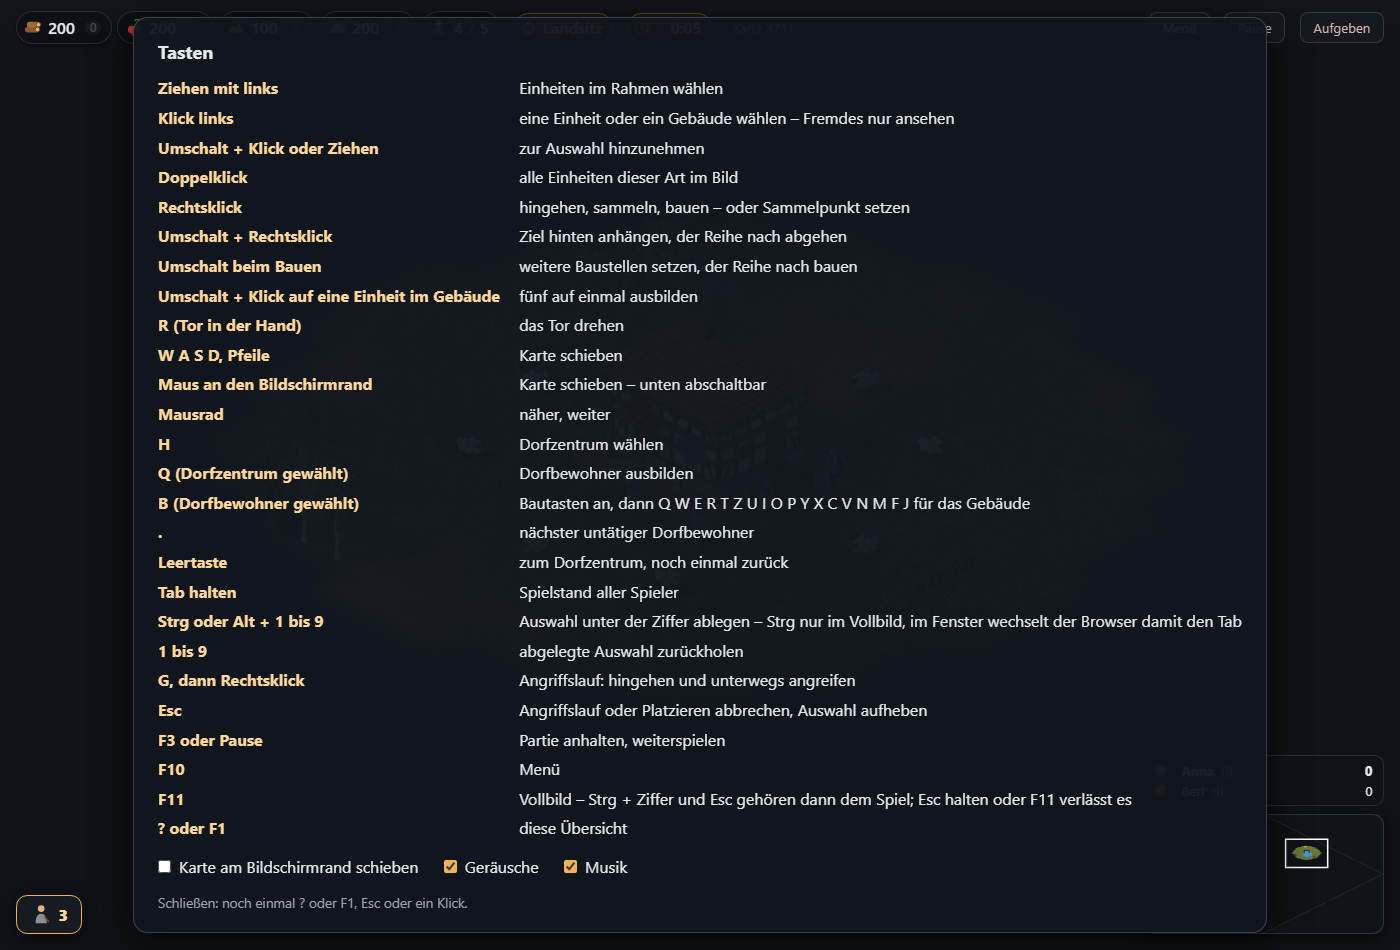
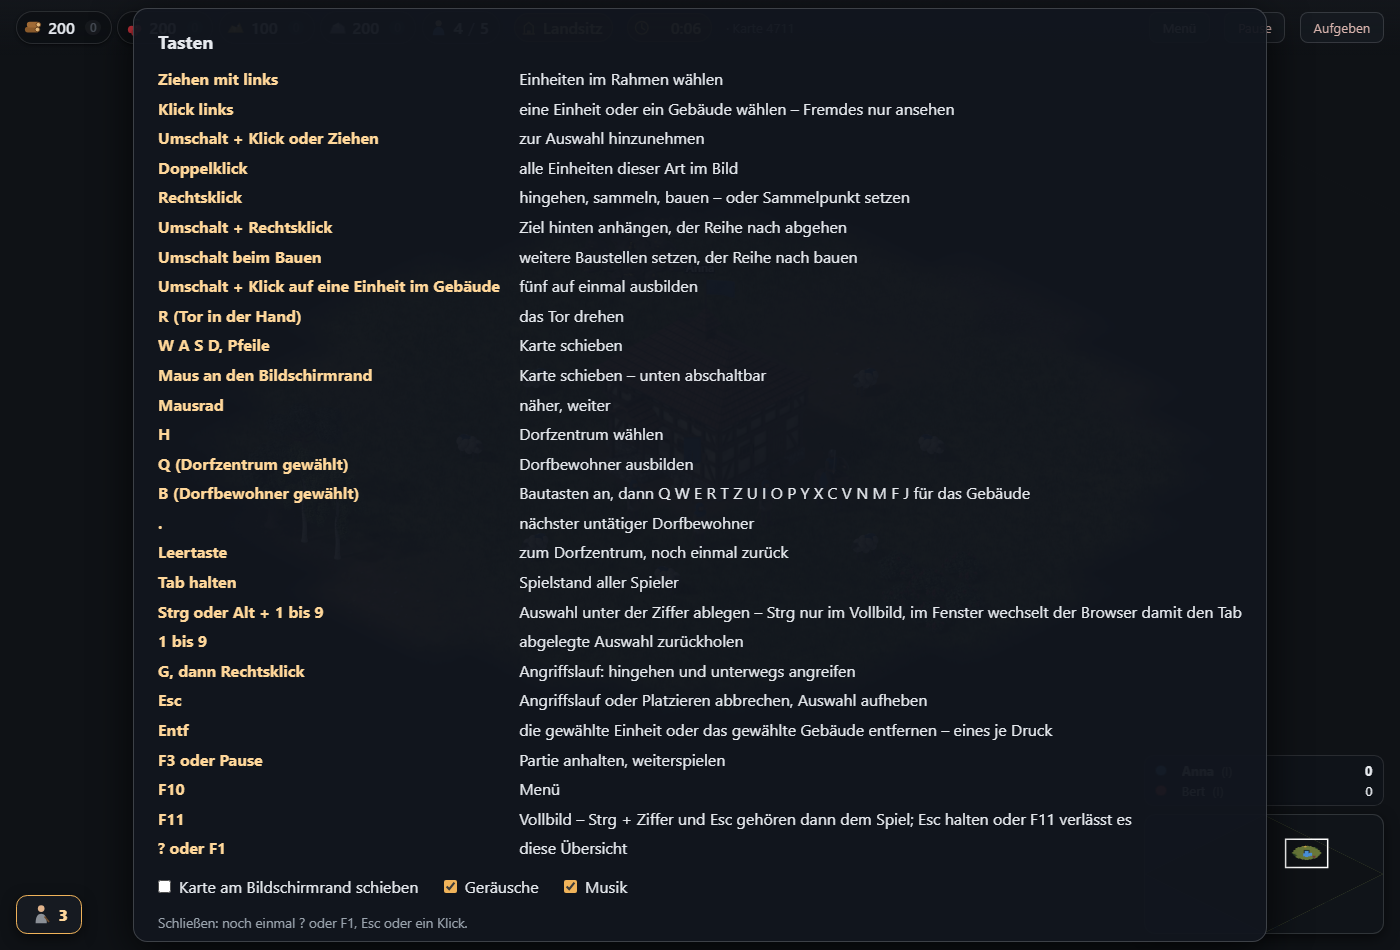
bedienung AC-75: Entf entfernt das Gewaehlte
Die Taste Entf nimmt eine gewaehlte eigene Einheit oder das gewaehlte
eigene Gebaeude aus dem Spiel - eines je Druck, eine gehaltene Taste
zaehlt einmal. Die Einheit faellt wie im Kampf und zaehlt als verloren,
das Gebaeude hinterlaesst Truemmer, eine Baustelle wird abgerissen und
erstattet. Niemand bekommt Punkte dafuer; entschieden wird auf dem Server
(Nachricht `entlassen`).

Rueckmeldung des Benutzers (Punkt 38): "sollte es moeglich sein, dass ein
dorfbewohner sich selbst umbringt? durch entf taste?" - und "nur
entfernen, muessen keine massenentf sein oder so."

Belegt: tests/strategie-entlassen.test.mjs (4),
e2e/tests/strategie-entlassen.spec.mjs (1, mit Bild). Check gruen:
912 Tests, 14 Partien; 292 Browserfaelle, davon neu gefahren die 16 um
Tasten, Leiste und Laptopbild.

Changed region(s): [[0.0921, 0.0305, 0.8907, 0.9768], [0.3686, 0.0, 0.43, 0.0305], [0.4607, 0.0, 0.4914, 0.0305]]

diff --git a/public/ansicht.js b/public/ansicht.js
@@ -200,6 +200,8 @@ export class Ansicht {
     // Nach jedem Bild und bei geaenderten Feldern - fuer die Uebersichtskarte (bedienung AC-11).
     this.nachBild = () => {};
     this.beiTaste = () => false;
+    // Ein Auftrag, der kein Befehl an ein Ziel ist (Entf, bedienung AC-75).
+    this.beiAuftrag = (auftrag) => {};
     this.beiFeldern = () => {};
     // Die Tafel auf `Tab` (bedienung AC-20): je Spieler, was zuletzt ankam,
     // und ob sie gerade offen ist - app.js zeichnet sie.
@@ -1314,6 +1316,12 @@ export class Ansicht {
         }
         return;
       }
+      // Entf entfernt das Gewaehlte (bedienung AC-75) - eines je Druck, eine
+      // gehaltene Taste raeumt kein Heer ab.
+      if (e.key === 'Delete' && !e.ctrlKey && !e.metaKey && !e.altKey) {
+        if (!e.repeat) this.entlassen();
+        return;
+      }
       // Der naechste untaetige Dorfbewohner (bedienung AC-28).
       if (e.key === '.' && !e.ctrlKey && !e.metaKey && !e.altKey) {
         this.naechsterUntaetiger();
@@ -1345,6 +1353,26 @@ export class Ansicht {
       // Wer mit gehaltenem Tab das Fenster verlaesst, bekommt kein keyup.
       this.spielstandSetzen(false);
     });
+  }
+
+  /**
+   * Das Gewaehlte entfernen (bedienung AC-75): von mehreren gewaehlten
+   * Einheiten die erste, sonst das gewaehlte eigene Gebaeude. Entschieden
+   * wird auf dem Server; hier wird nur gefragt. Gibt zurueck, ob etwas
+   * geschickt wurde.
+   */
+  entlassen() {
+    if (this.ende || this.aus || this.pausiert) return false;
+    for (const id of this.ausgewaehlt) {
+      const einheit = this.nachher.get(id);
+      if (!einheit || einheit.b !== this.ich || einheit.s) continue;
+      this.beiAuftrag({ auftrag: 'entlassen', einheit: id });
+      return true;
+    }
+    const gebaeude = this.ausgewaehlt.size ? null : this.gebaeude.get(this.gewaehltesGebaeude);
+    if (!gebaeude || gebaeude.b !== this.ich) return false;
+    this.beiAuftrag({ auftrag: 'entlassen', gebaeude: gebaeude.i });
+    return true;
   }
 
   // Ausgewaehlt wird im Bild, nicht auf der Karte: ein Rechteck auf dem

diff --git a/server/spiele/strategie/welt.js b/server/spiele/strategie/welt.js
@@ -1320,6 +1320,8 @@ class Welt {
         return this.ansehen(spielerId, nachricht.feld);
       case 'farmen':
         return this.farmenEinstellen(spielerId, nachricht);
+      case 'entlassen':
+        return this.entlassen(spielerId, nachricht);
       default:
         return this.befehl(spielerId, nachricht.einheiten, nachricht.ziel, Boolean(nachricht.angriffslauf),
           Boolean(nachricht.anhaengen));
@@ -2260,6 +2262,29 @@ class Welt {
     if (!spieler) return { fehler: 'Diesen Spieler gibt es hier nicht.' };
     if (typeof nachricht.erneuern === 'boolean') spieler.farmenErneuern = nachricht.erneuern;
     if (typeof nachricht.raeumen === 'boolean') spieler.brachenRaeumen = nachricht.raeumen;
+    return {};
+  }
+
+  /**
+   * Etwas Eigenes entfernen (bedienung AC-75): eine Einheit oder ein Gebaeude
+   * je Nachricht. Die Einheit faellt wie im Kampf (sie liegt zwei Sekunden,
+   * zaehlt auf der Tafel als verloren), das Gebaeude stuerzt ein und
+   * hinterlaesst Truemmer; eine Baustelle wird abgerissen und erstattet, was
+   * nicht verbaut ist (bauen AC-6). Punkte bekommt dafuer niemand - es gibt
+   * keinen Angreifer (bedienung AC-49).
+   */
+  entlassen(spielerId, nachricht) {
+    if (nachricht.gebaeude !== undefined) {
+      const gebaeude = this.gebaeude.get(nachricht.gebaeude);
+      if (!gebaeude || gebaeude.besitzer !== spielerId) return { fehler: 'Das ist nicht dein Gebäude.' };
+      if (!gebaeude.fertig) return this.abreissen(spielerId, gebaeude.id);
+      gebaeude.leben = 0;
+      this.gebaeudeZerstoeren(gebaeude);
+      return {};
+    }
+    const einheit = this.einheiten.get(nachricht.einheit);
+    if (!einheit || einheit.besitzer !== spielerId || einheit.tot) return { fehler: 'Das ist nicht deine Einheit.' };
+    this.einheitSterben(einheit);
     return {};
   }
 

diff --git a/public/tasten.js b/public/tasten.js
@@ -39,6 +39,7 @@ export const BELEGUNG = [
   ['1 bis 9', 'abgelegte Auswahl zurückholen'],
   ['G, dann Rechtsklick', 'Angriffslauf: hingehen und unterwegs angreifen'],
   ['Esc', 'Angriffslauf oder Platzieren abbrechen, Auswahl aufheben'],
+  ['Entf', 'die gewählte Einheit oder das gewählte Gebäude entfernen – eines je Druck'],
   ['F3 oder Pause', 'Partie anhalten, weiterspielen'],
   ['F10', 'Menü'],
   ['F11', 'Vollbild – Strg + Ziffer und Esc gehören dann dem Spiel; Esc halten oder F11 verlässt es'],

diff --git a/public/app.js b/public/app.js
@@ -148,6 +148,7 @@ function empfangen(nachricht) {
         const tasten = new Tasten(ansicht, teile.auswahlleiste, document.getElementById('tastenuebersicht'), ton);
         tastenhilfe = tasten;
         ansicht.beiTaste = (e) => tasten.taste(e);
+        ansicht.beiAuftrag = (auftrag) => senden({ typ: 'befehl', ...auftrag });
         ansicht.melden = spielMelden;
         ansicht.beiEreignis = (name, wo) => ton.spielen(name, wo);
         ansicht.beiZeitalter = (stufe, name) => {

diff --git a/CLAUDE.md b/CLAUDE.md
@@ -180,7 +180,7 @@ Umfang hinzufügt, dort nachsehen.
 
 ## Stand
 
-**545 von 668 Kriterien fertig.** 908 Tests ohne Browser und 14 ganze Partien, 291 im Browser. Die
+**546 von 669 Kriterien fertig.** 912 Tests ohne Browser und 14 ganze Partien, 292 im Browser. Die
 Übersicht ist der Bericht: `npm run qa:report`.
 
 Gebaut ist der Unterbau: Räume, Übertragung, Karte, Wegfindung, Sammeln,
@@ -200,7 +200,7 @@ Gemessen: **3,10 Tore je Spiel, 48 % Heimsiege, 21 % Unentschieden**
 ohne Menschen null Widersprüche in den Spielen, Kader, Stärke und Markt
 stabil. Eine Saison rechnet in rund 400 ms, ein Spielstand ist nach zwei
 Saisons unter 1 MB. Der Browserlauf dauert rund 31
-Minuten für 291 Fälle (`npm run e2e:laufzeiten` zeigt, wo; die langsamsten
+Minuten für 292 Fälle (`npm run e2e:laufzeiten` zeigt, wo; die langsamsten
 Fälle sind `fahrplan AC-24` mit 108 s, zwei gegen zwei bis zur Tafel,
 `fahrplan AC-14` mit 90 s, die Ritterzeit am Stück, und `fahrplan AC-12`
 mit 84 s, eine ganze Partie gegen die KI).
@@ -732,7 +732,9 @@ ein Karren zwischen zwei eigenen Märkten bringt weniger als zu einem fremden
 eigene und fremde Haus an der Auswahl (AC-69), Kampfwerte als „3+1"
 (AC-70), Vorräte und erlegte Schafe lassen sich ansehen (AC-63), eine
 Schlagbewegung je Schlag (AC-72), der Mönch ist zu hören und seine Ruhe zu
-sehen (AC-74, AC-68). Ein gefallenes Gebäude liegt kurz als Trümmer da
+sehen (AC-74, AC-68). **`Entf` entfernt das Gewählte** (AC-75,
+Nachricht `entlassen`): eine Einheit oder ein Gebäude je Druck, ohne
+Punkte für den Gegner. Ein gefallenes Gebäude liegt kurz als Trümmer da
 (darstellung AC-26), nach dem Ende steht das Bild (spielziel AC-28), Zoomen
 stockt nicht mehr (darstellung AC-27), und **Pfeil und Wurfstein kommen aus
 einer gerenderten Tafel** (`geschoss`, darstellung AC-28) — der gezeichnete

diff --git a/specs/BOARD.md b/specs/BOARD.md
@@ -7,9 +7,9 @@ Eine Zeile je Abnahmekriterium. Gepflegt wird der Status in der Spec selbst,
 hier steht er zusammengefasst. Erzeugt mit `npm run specs:board`; als Seite
 mit Bildnachweisen, Filter und Suche mit `npm run qa:report`.
 
-**Gesamt:** 545/668 fertig · 3 in Arbeit · 14 in QA · 3 geplant · 95 offen · 8 zurueckgestellt
+**Gesamt:** 546/669 fertig · 3 in Arbeit · 14 in QA · 3 geplant · 95 offen · 8 zurueckgestellt
 
-**Nachweise:** 276 Kriterien mit Bild · 277 ohne Bild, begruendet in `qa/ohne-bild.json`
+**Nachweise:** 277 Kriterien mit Bild · 277 ohne Bild, begruendet in `qa/ohne-bild.json`
 
 ## Nach Spezifikation
 
@@ -22,7 +22,7 @@ mit Bildnachweisen, Filter und Suche mit `npm run qa:report`.
 | [Spielauswahl und Einstellungen](00-plattform/spielauswahl.md) | -         | -     | -       | 5     | -               | 19     |
 | [Uebertragung](00-plattform/uebertragung.md)                   | -         | -     | 1       | 1     | -               | 8      |
 | [Bauen und Ausbilden](10-strategie/bauen.md)                   | -         | -     | -       | 1     | -               | 43     |
-| [Bedienung](10-strategie/bedienung.md)                         | -         | 2     | -       | 3     | -               | 68     |
+| [Bedienung](10-strategie/bedienung.md)                         | -         | 2     | -       | 3     | -               | 69     |
 | [Darstellung](10-strategie/darstellung.md)                     | 1         | 1     | -       | 4     | -               | 22     |
 | [Einheiten und Befehle](10-strategie/einheiten-und-befehle.md) | -         | -     | -       | 17    | 1               | 38     |
 | [Fahrplan zum Klon](10-strategie/fahrplan.md)                  | -         | 2     | -       | 4     | -               | 19     |

diff --git a/specs/10-strategie/bedienung.md b/specs/10-strategie/bedienung.md
@@ -2,7 +2,7 @@
 
 **Bereich:** Strategie
 **Kuerzel:** bedienung
-**Stand:** 68/73 fertig · 2 in QA · 3 offen
+**Stand:** 69/74 fertig · 2 in QA · 3 offen
 
 ## Zweck
 
@@ -678,6 +678,22 @@ Spiel) — sie werden hier eingetragen, wenn sie gebaut sind.
   Benutzers:** „der mönch macht keine geräuscht beim bekehren oder heilen".
   **Nicht geprüft:** wie es klingt — das entscheidet ein Ohr
   (`npm run ton:messen` schreibt die Klänge als WAV).
+- **AC-75** `fertig` **Entf entfernt das Gewählte** — Die Taste `Entf`
+  entfernt, was gewählt ist: eine eigene Einheit oder ein eigenes Gebäude.
+  **Eines je Druck** — sind mehrere Einheiten gewählt, fällt die erste, die
+  anderen bleiben gewählt; eine gehaltene Taste zählt einmal. Die Einheit
+  fällt wie im Kampf (sie liegt zwei Sekunden am Boden und zählt auf der
+  Tafel als verloren), das Gebäude stürzt ein und hinterlässt Trümmer
+  (darstellung AC-26), eine Baustelle wird abgerissen und erstattet, was
+  nicht verbaut ist (bauen AC-6) — so räumt man auch eine Brache weg (bauen
+  AC-41). Niemand bekommt dafür Punkte (AC-49), und Fremdes entfernt die
+  Taste nicht: entschieden wird auf dem Server (Nachricht `entlassen`). Wer
+  sein letztes Gebäude und seine letzte Einheit entfernt, scheidet aus wie
+  jeder, der nichts mehr hat (spielziel AC-5). Keine Rückfrage, kein
+  Entfernen ganzer Gruppen. **Rückmeldung des Benutzers:** „sollte es
+  möglich sein, dass ein dorfbewohner sich selbst umbringt? durch entf
+  taste?" und, zum Vorschlag mit Umschalt für alle: „nur entfernen, müssen
+  keine massenentf sein oder so."
 
 ## Grenzfaelle
 
